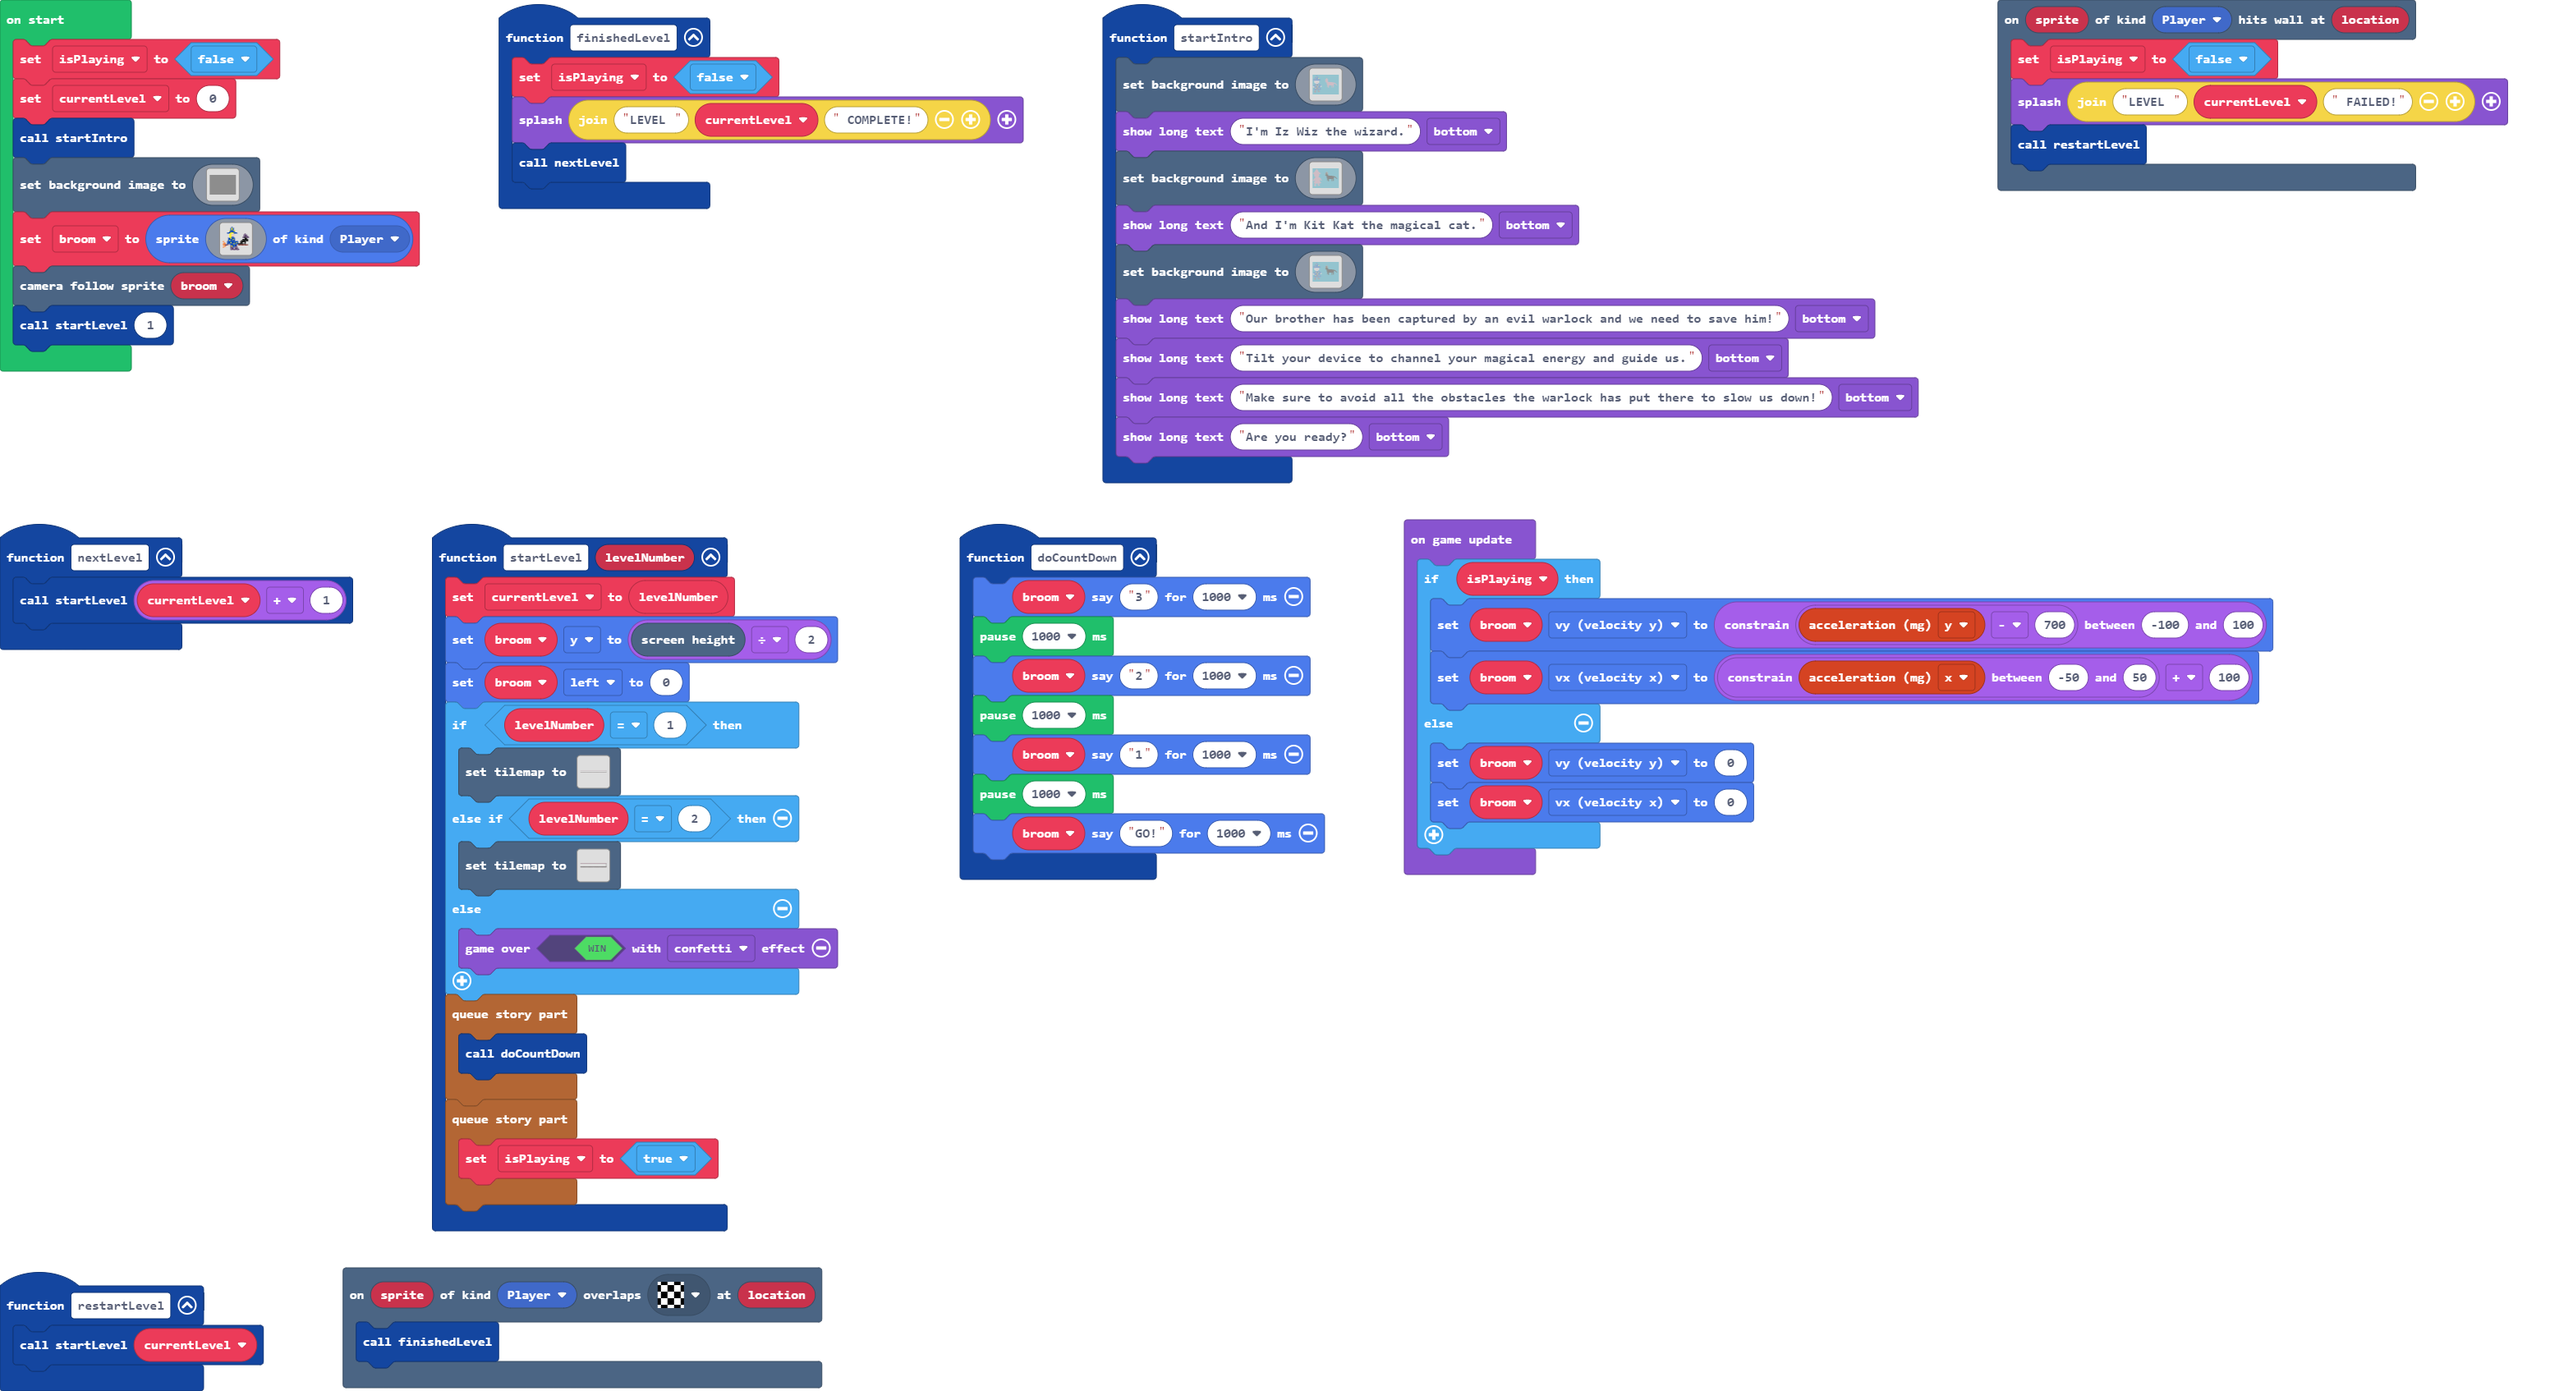
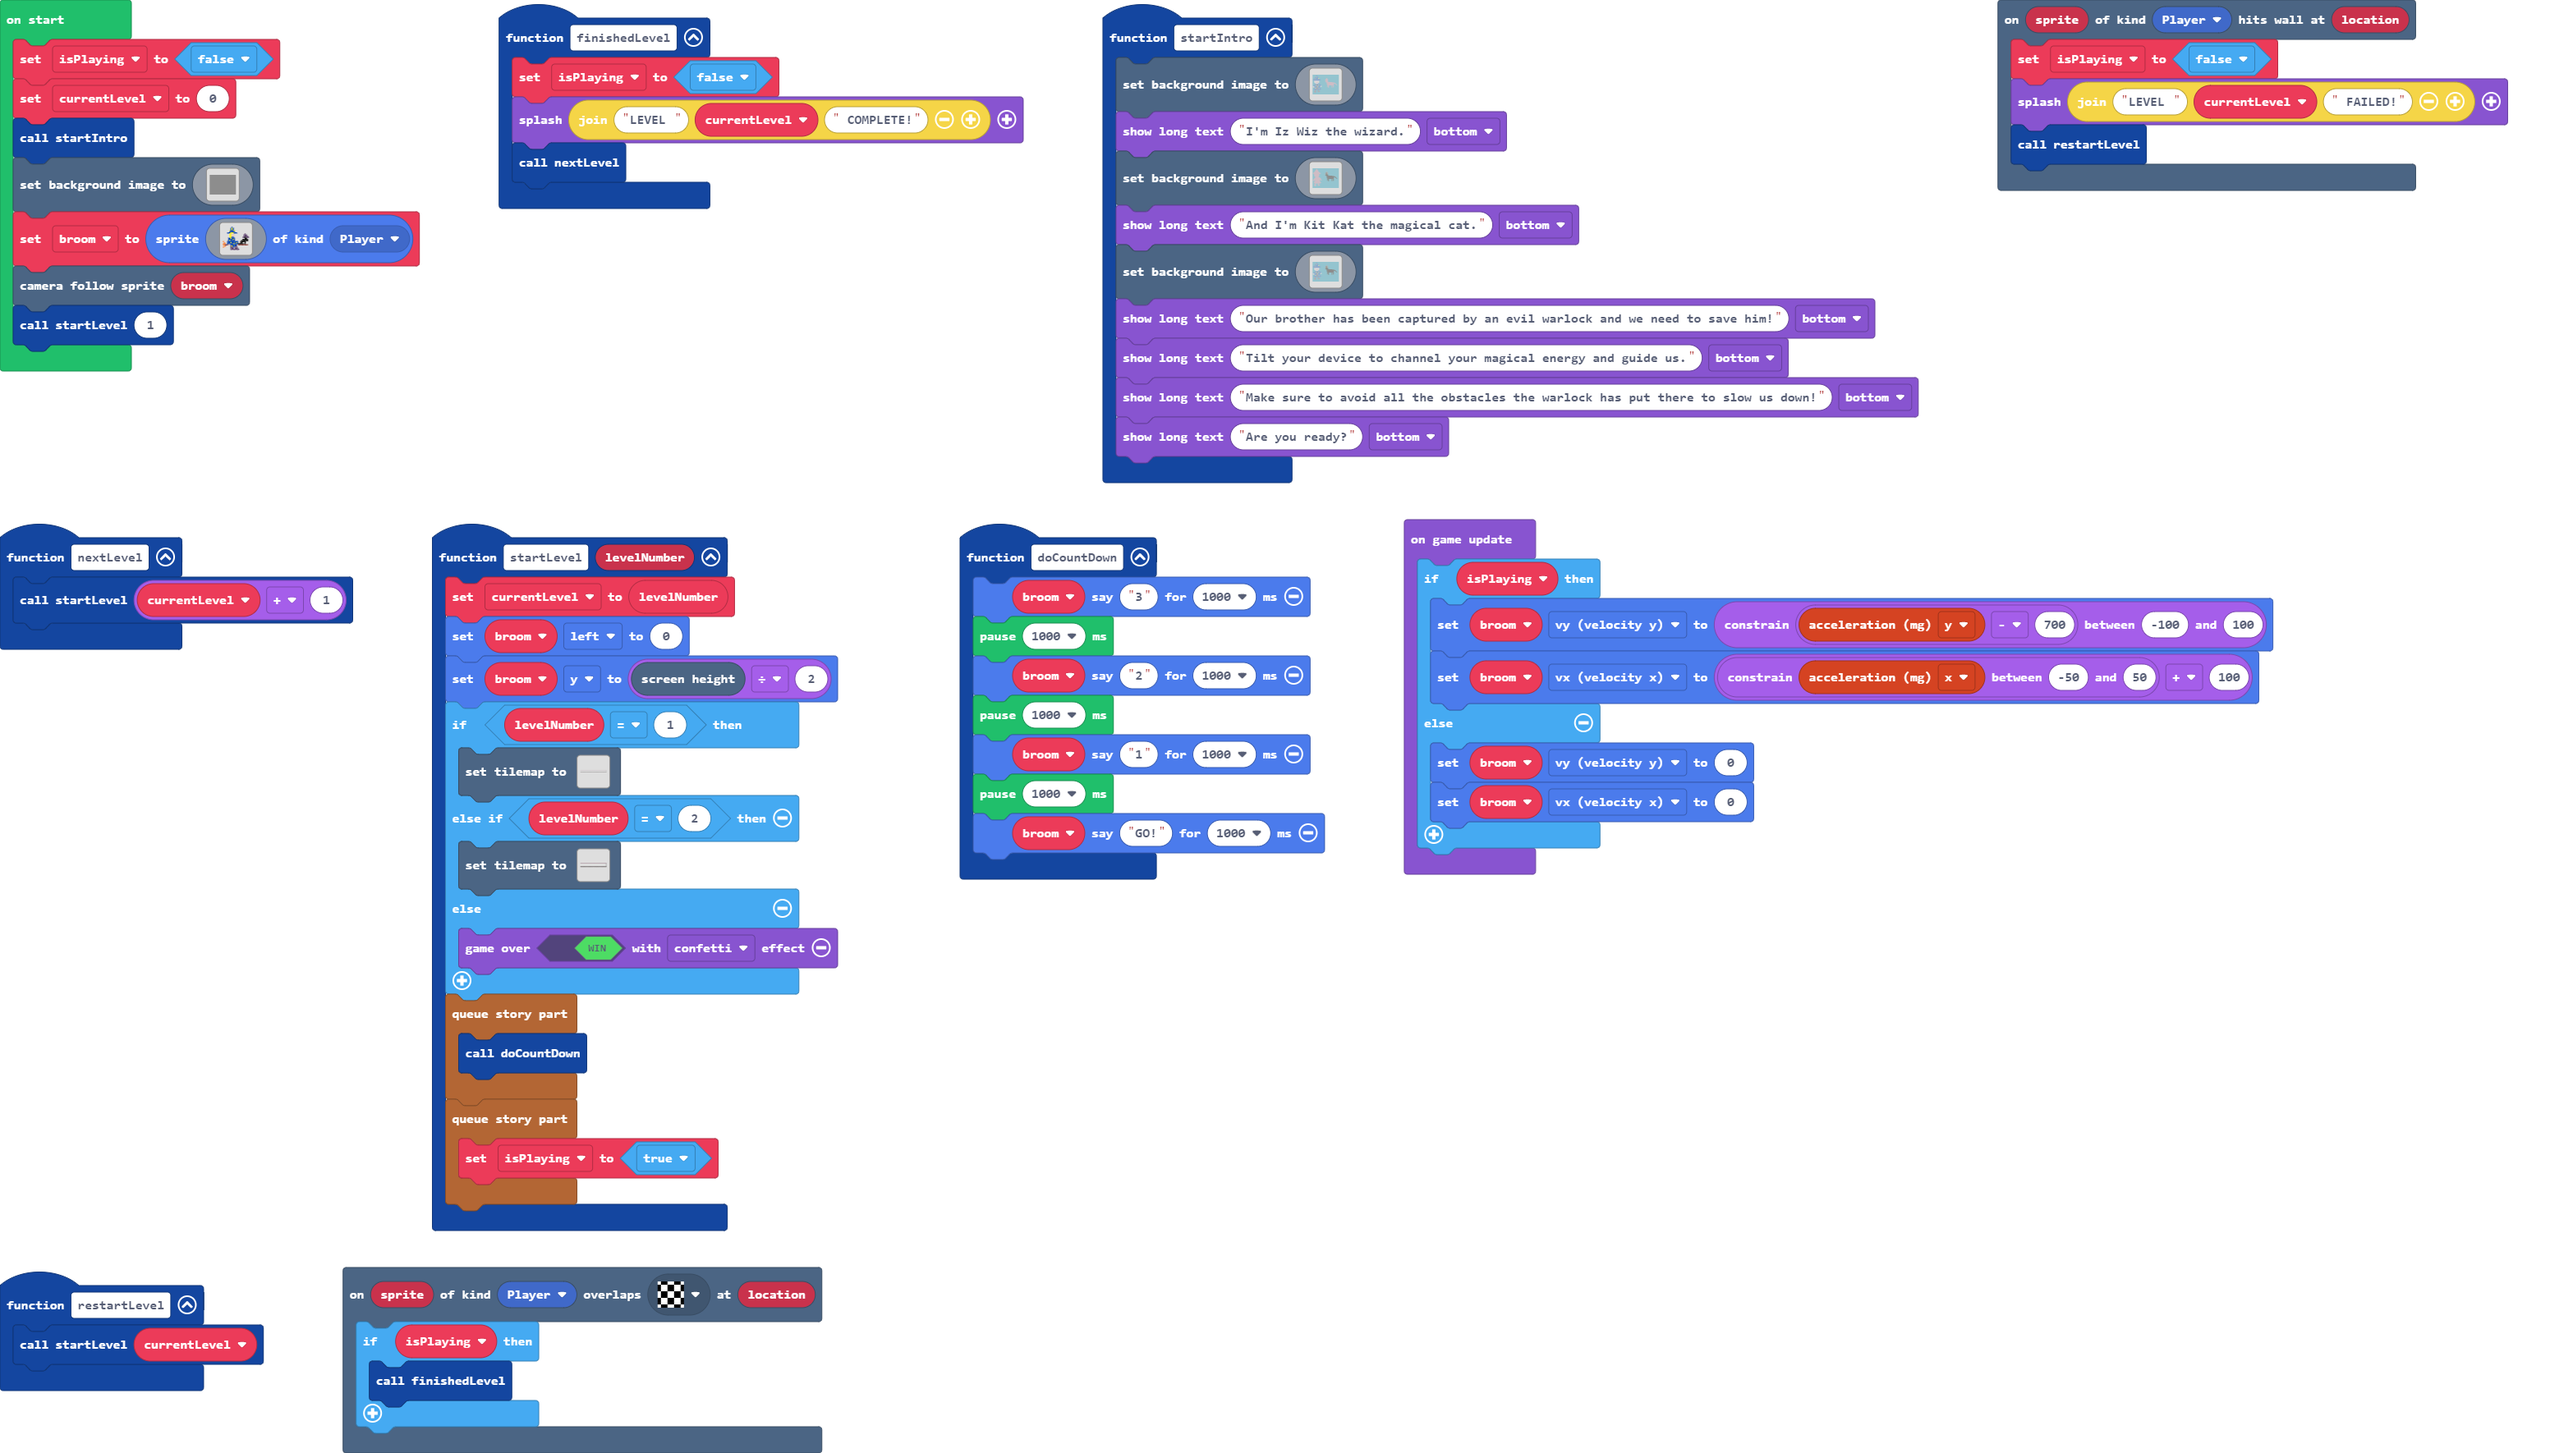
Fix bug where multiple overlaps with finish line were registered.

diff --git a/main.ts b/main.ts
@@ -398,12 +398,14 @@ function nextLevel () {
     startLevel(currentLevel + 1)
 }
 scene.onOverlapTile(SpriteKind.Player, myTiles.tile1, function (sprite, location) {
-    finishedLevel()
+    if (isPlaying) {
+        finishedLevel()
+    }
 })
 function startLevel (levelNumber: number) {
     currentLevel = levelNumber
-    broom.y = scene.screenHeight() / 2
     broom.left = 0
+    broom.y = scene.screenHeight() / 2
     if (levelNumber == 1) {
         tiles.setTilemap(tilemap`level`)
     } else if (levelNumber == 2) {
